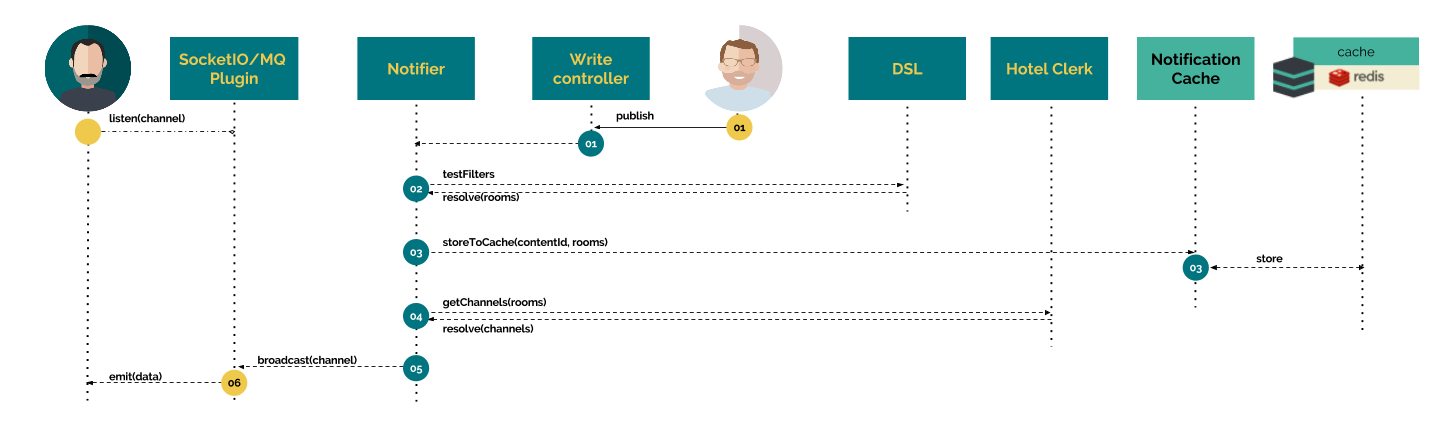
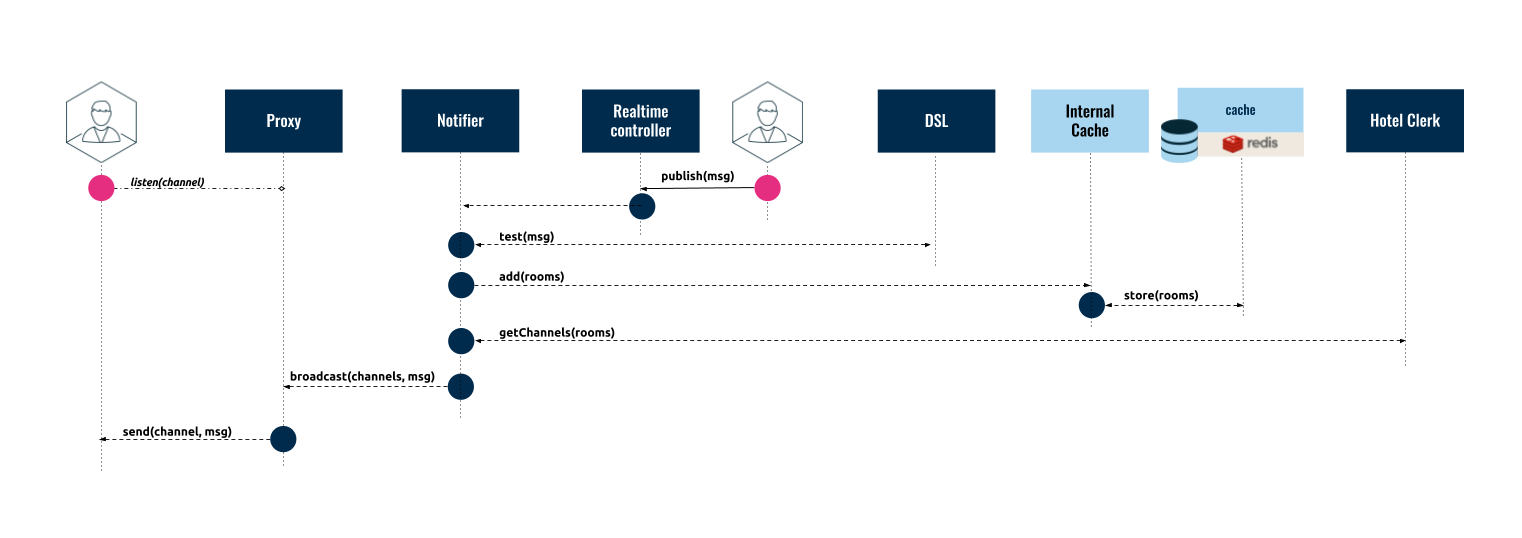
#150: Update request scenarios

diff --git a/src/guide/kuzzle-depth/request-life-cycle.md b/src/guide/kuzzle-depth/request-life-cycle.md
@@ -26,13 +26,13 @@ The following diagram shows how the Request flows between the client application
 ![read_scenario_http_details]({{ site_base_path }}assets/images/request-scenarios/read-http/details.png)
 
 * The HTTP client asks for a document via a HTTP GET Request. For instance, to retrieve the document '739c26bc-7a09-469a-803d-623c4045b0cb' in the collection `users`: `GET http://kuzzle:7512/mainindex/users/739c26bc-7a09-469a-803d-623c4045b0cb`.
-* The proxy forwards the Request through the HTTP Entry point to the Router, which handles it and forwards the formatted Request to the Funnel.
+* The proxy forwards the Request through the entry point to the HTTP Router, which handles it and forwards the formatted Request to the Funnel.
 
 The formatted Request `input` looks like the following:
 
 ```javascript
 {
-  "controller": "read",
+  "controller": "document",
   "action": "get",
   "resource": {
     "index": "mainindex",
@@ -42,9 +42,9 @@ The formatted Request `input` looks like the following:
 }
 ```
 
-* The Funnel Controller validates the data before sending the request to the Document Controller.
-* The Document Controller calls the Read Engine service.
-* The Read Engine service performs an HTTP request to get the data from the data storage.
+* The Funnel validates the data before sending the request to the Document Controller.
+* The Document Controller calls the Storage Engine.
+* The Storage Engine performs an HTTP request to get the data from the data storage.
 
 The content returned by Elasticsearch looks like the following:
 
@@ -82,11 +82,12 @@ The following diagram shows how the Request flows between the client application
 
 ![read_scenario_websocket_details]({{ site_base_path }}assets/images/request-scenarios/read-websocket/details.png)
 
-* The client application opens a Websocket connection to Kuzzle Proxy and emits a "read" event containing the request. For instance, to retrieve the document `739c26bc-7a09-469a-803d-623c4045b0cb` in the collection `users`:
+* The client application opens a Websocket connection to Kuzzle Proxy and sends message containing the request. For instance, to retrieve the document `739c26bc-7a09-469a-803d-623c4045b0cb` in the collection `users`:
 
 ```javascript
 {
   "requestId": "ed4faaff-253a-464f-a6b3-387af9d8483d",
+  "controller": "document",
   "action": "get",
   "collection": "users",
   "_id": "739c26bc-7a09-469a-803d-623c4045b0cb"
@@ -101,9 +102,7 @@ The client then listens to the `<requestId>` event on the socket, like the follo
   });
 ```
 
-* The Kuzzle Websocket plugin handles the Request and forwards the message to the Backend Broker.
-* The Backend Broker sends the message to the Proxy Broker (within the Kuzzle Core) through a Websocket connection.
-* The Proxy Broker forwards the Request through the Proxy Entry Point to the Router, who handles it and forwards the formatted Request to the Funnel.
+* The Proxy forwards the Request through the Proxy Entry Point to the Funnel.
 
 The formatted Request `input` looks like the following:
 
@@ -120,8 +119,8 @@ The formatted Request `input` looks like the following:
 ```
 
 * The Funnel validates the message and forward the request to the Document Controller.
-* The Document Controller forwards the Request `input` to the Read Engine service.
-* The Read Engine service performs an HTTP request to get the data from Elasticsearch.
+* The Document Controller forwards the Request `input` to the Storage Engine.
+* The Storage Engine performs an HTTP request to get the data from the data storage.
 
 The content returned by Elasticsearch looks like the following:
 
@@ -146,8 +145,7 @@ The content returned by Elasticsearch looks like the following:
 }
 ```
 
-* Promises functions are resolved to forward the response message back to the Proxy Broker.
-* The Proxy Broker sends the response to the proxy's Backend Broker through the Websocket connection.
+* Promises functions are resolved to forward the response message back to the Proxy Entry Point, who sends the response to the proxy.
 * The Proxy triggers the callback, which emits a `<requestId>` event to the Websocket client.
 
 ---
@@ -158,8 +156,8 @@ This section explains what happens when clients send new content to Kuzzle.
 
 Kuzzle is able to handle two different types of input:
 
-* **persisted data**, via the `_create_`, `_createOrUpdate_`, or `_delete_` actions.
-* **real-time data**, via the `_publish_` action.
+* **persisted data**, via the [Document controller]({{ site_base_path }}api-documentation/controller-document).
+* **real-time data**, via the [Realtime/Publish action]({{ site_base_path }}controller-realtime/publish).
 
 ### Writing persistent data
 
@@ -172,47 +170,40 @@ Detailed workflow:
 ![persistence_scenario_details]({{ site_base_path }}assets/images/request-scenarios/persistence/details.png)
 
 * A client sends new content to Kuzzle, either via an HTTP request, through a Websocket connection or using a custom plugin protocol.
-* The router handles the Request and forwards the message to the Funnel.
+* The Proxy forwards the Request through the Proxy Entry Point to the Funnel.
+
+The formatted Request `input` looks like the following:
 
 ```javascript
 {
-  "status": 102,
-  "id": "...", // ... The connection id
-  "context": {
-    // ... The connection context
+  "controller": "document",
+  "action": "create",
+  "resource": {
+    "index": "mainindex",
+    "collection": "users"
   },
-  "input": {
-    "resource": {
-      "index": "mainindex",
-      "collection": "users"
+  "body": {
+    "firstName": "Grace",
+    "lastName": "Hopper",
+    "age": 85,
+    "location": {
+      "lat": 32.692742,
+      "lon": -97.114127
     },
-    "controller": "document",
-    "action": "create",
-    "body": {
-      "firstName": "Grace",
-      "lastName": "Hopper",
-      "age": 85,
-      "location": {
-        "lat": 32.692742,
-        "lon": -97.114127
-      },
-      "city": "NYC",
-      "hobby": "computer"
-    }
+    "city": "NYC",
+    "hobby": "computer"
   }
 }
 ```
 
-* The Funnel validates the Request and triggers the Plugins Manager with a `document:create` event. The Plugins Manager calls all pipes and hooks configured by the active plugins (see the [Plugin Reference]({{ site_base_path }}plugins-reference)).
 * The Funnel forwards the Request to the Document Controller.
-* The Document Controller sends the request to the Storage Engine service.
-The Storage Engine sends the request to the database.
+* The Document Controller sends the request to the Storage Engine service, who sends the request to the data storage.
 * Once the Storage Engine gets the response back, it replies to the Document Controller.
 * The Document Controller wraps the response in a Kuzzle Response and forwards it back to the user.
 
 ### Subscribe and Notification scenario
 
-This subsection describes the life-cycle of **non persistent** data notifications as well as real-time notifications, implementing the [Publish/Subscribe pattern](https://en.wikipedia.org/wiki/Publish%E2%80%93subscribe_pattern).
+This subsection describes the life-cycle of real-time notifications about persistent and non persistent data, implementing the [Publish/Subscribe pattern](https://en.wikipedia.org/wiki/Publish%E2%80%93subscribe_pattern).
 
 Remember the [Architecture overview]({{ site_base_path }}guide/kuzzle-depth) and focus on the components involved by pub/sub actions:
 ![pubsub_overview]({{ site_base_path }}assets/images/request-scenarios/pubsub/overview.png)
@@ -223,14 +214,14 @@ The following diagram shows how two different clients, a Websocket and a MQ one,
 
 ![pubsub_scenario_details1]({{ site_base_path }}assets/images/request-scenarios/pubsub/details1.png)
 
-* The client application opens a Websocket or a MQ connection and emits a "subscribe" event with some filters (see the [API Documentation]({{ site_base_path }}api-documentation/controller-realtime/subscribe)). For instance, to be notified about any content posted to the collection `users`, containing a field `hobby` equals to `computer`:
+* The client application opens a Websocket or a MQ connection and sends a subscription message with some filters (see the [API Documentation]({{ site_base_path }}api-documentation/controller-realtime/subscribe)). For instance, to be notified about any content posted to the collection `users`, containing a field `hobby` equals to `computer`:
 
 ```javascript
 {
-  "index": "mainindex",
-  "collection": "users",
   "controller": "realtime",
   "action": "subscribe",
+  "index": "mainindex",
+  "collection": "users",
   "body": {
     "equals": {
       "hobby": "computer"
@@ -243,48 +234,45 @@ The following diagram shows how two different clients, a Websocket and a MQ one,
 See the [Kuzzle DSL Reference]({{ site_base_path }}kuzzle-dsl/) for more details.
 
 The client then listens to the `<requestId>` event on the socket.
-Kuzzle will get back to him with a corresponding Room ID and a Room Channel using this event.
 
-Sample Javascript code, using Websocket:
+* The proxy forwards the subscription message to the Funnel.
 
-```javascript
-  this.socket.once("ed4faaff-253a-464f-a6b3-387af9d8483d", function(response) {
-    callback(response);
-  });
-```
-
-* The Router interprets the input request and transfer the subscription message to the Funnel.
+The formatted Request `input` looks like the following:
 
 ```javascript
 {
-  "index": "mainindex",
-  "collection": "users",
-  "controller": "subscribe",
-  "action": "on",
-  "filter": {
-    "equals": {"hobby": "computer" }
-  }
+  "controller": "realtime",
+  "action": "subscribe",
+  "resource": {
+    "index": "mainindex",
+    "collection": "users"
+  },
+  "body": {
+    "equals": {
+      "hobby": "computer"
+    }
+  },
+  "state": "all"
 }
 ```
 
-* The Funnel validates the message and transfers it to the Realtime Controller.
+* The Funnel validates the request and forwards it to the Realtime Controller.
 * The Realtime Controller calls the HotelClerk internal component to create the subscription.
-* The HotelClerk calls the DSL component to get a formated filter related to the subscription (see [DSL Readme](https://github.com/kuzzleio/kuzzle/blob/master/lib/api/dsl/README.md) for more details).
-* The HotelClerk creates a channel related to the filters and gives it back to the Realtime Controller.
-* The channel is sent back to the Websocket (or MQ) Router through the internal components.
-* The Websocket (or MQ) Router emits a `<requestId>` event to the client, containing the subscribed channel ID.
+* The HotelClerk calls the DSL component to normalize the filters and register the subscription (see [DSL Readme](https://github.com/kuzzleio/kuzzle/blob/master/lib/api/dsl/README.md) for more details).
+* Promises functions are resolved to forward the channel ID from the HotelClerk to the Proxy
+* The Proxy triggers the callback, which emits a `<requestId>` event containing the subscribed channel ID to the Websocket client.
 
 Sample response content:
 
 ```javascript
 {
+  "requestId": "ed4faaff-253a-464f-a6b3-387af9d8483d",
   "status": 200,
   "error": null,
-  "index": "mainindex",
-  "collection": "users",
   "controller": "realtime",
   "action": "subscribe",
-  "requestId": "ed4faaff-253a-464f-a6b3-387af9d8483d",
+  "index": "mainindex",
+  "collection": "users",
   "result": {
     "roomId": "78c5b0ba-fead-4535-945c-8d64a7927459",
     "channel": "c5cd8bdc-06a4-4d6e-bae3-61f1a8ac2982"
@@ -292,7 +280,8 @@ Sample response content:
 }
 ```
 
-* The client now listens to this `channel` events to be notified about new messages corresponding to his subscription filters.
+* The client now listens to events from this `channel`, to be notified about new messages corresponding to the subscription filters.
+
 
 #### 2nd step : notify about real-time actions
 
@@ -301,19 +290,22 @@ The following diagram shows how Kuzzle handles a new message and how subscribed 
 ![pubsub_scenario_details2]({{ site_base_path }}assets/images/request-scenarios/pubsub/details2.png)
 
 * A new content is published to the Notifier component. The `_publish_` method can be triggered:
-  * either directly by the Document Controller for non persistent data (using the [publish]({{ site_base_path }}api-documentation/controller-realtime/publish) action).
-  * or by the Plugins Manager when a 'document:create' event is triggered, to notify users in real-time before the data are sent to the storage Engine.
+  * either directly by the Realtime controller for non persistent data (using the [publish]({{ site_base_path }}api-documentation/controller-realtime/publish) action).
+  * or by the write actions of the Document controllers, to notify users in real-time before the data are sent to the storage Engine.
+  (see [Notifications Documentation]({{ site_base_path }}api-documentation/notifications) for more details)
 * The Notifier calls the DSL component to test registered filters that match the content, and get related rooms.
 * The Notifier uses the Notification Cache engine to store the mapping content/rooms into cache.
 * The Notifier calls the HotelClerk to get the channels related to the rooms.
-* The Notifier broadcasts the message to each related channel to the Websocket and MQ plugins.
-* Finally, the plugins send the message to the clients who subscribed to it.
+* The Notifier broadcasts the message to each related channel to the proxy.
+* Finally, the proxy sends the message to the clients who subscribed to it.
 
 #### 3rd step : notify about persisted data
 
-![pubsub_scenario_details2]({{ site_base_path }}assets/images/request-scenarios/pubsub/details3.png)
+The following diagram show how subscribed clients are notified after a document has been persisted (created, updated or deleted) to the storage engine:
 
-* The Notifier component is notified about a new action by the Document Controller
+![pubsub_scenario_details3]({{ site_base_path }}assets/images/request-scenarios/pubsub/details3.png)
+
+* Once the document is actually persisted, the Notifier component is notified about it by the Document Controller
 * The Notifier calls the Notification Cache to get the rooms related to the content
 * The Notifier calls the HotelClerk to get the channels related to the rooms
 * The Notifier asks the proxy to broadcast the notification to all users having subscribed to the retrieved channels, on all registered network protocols
